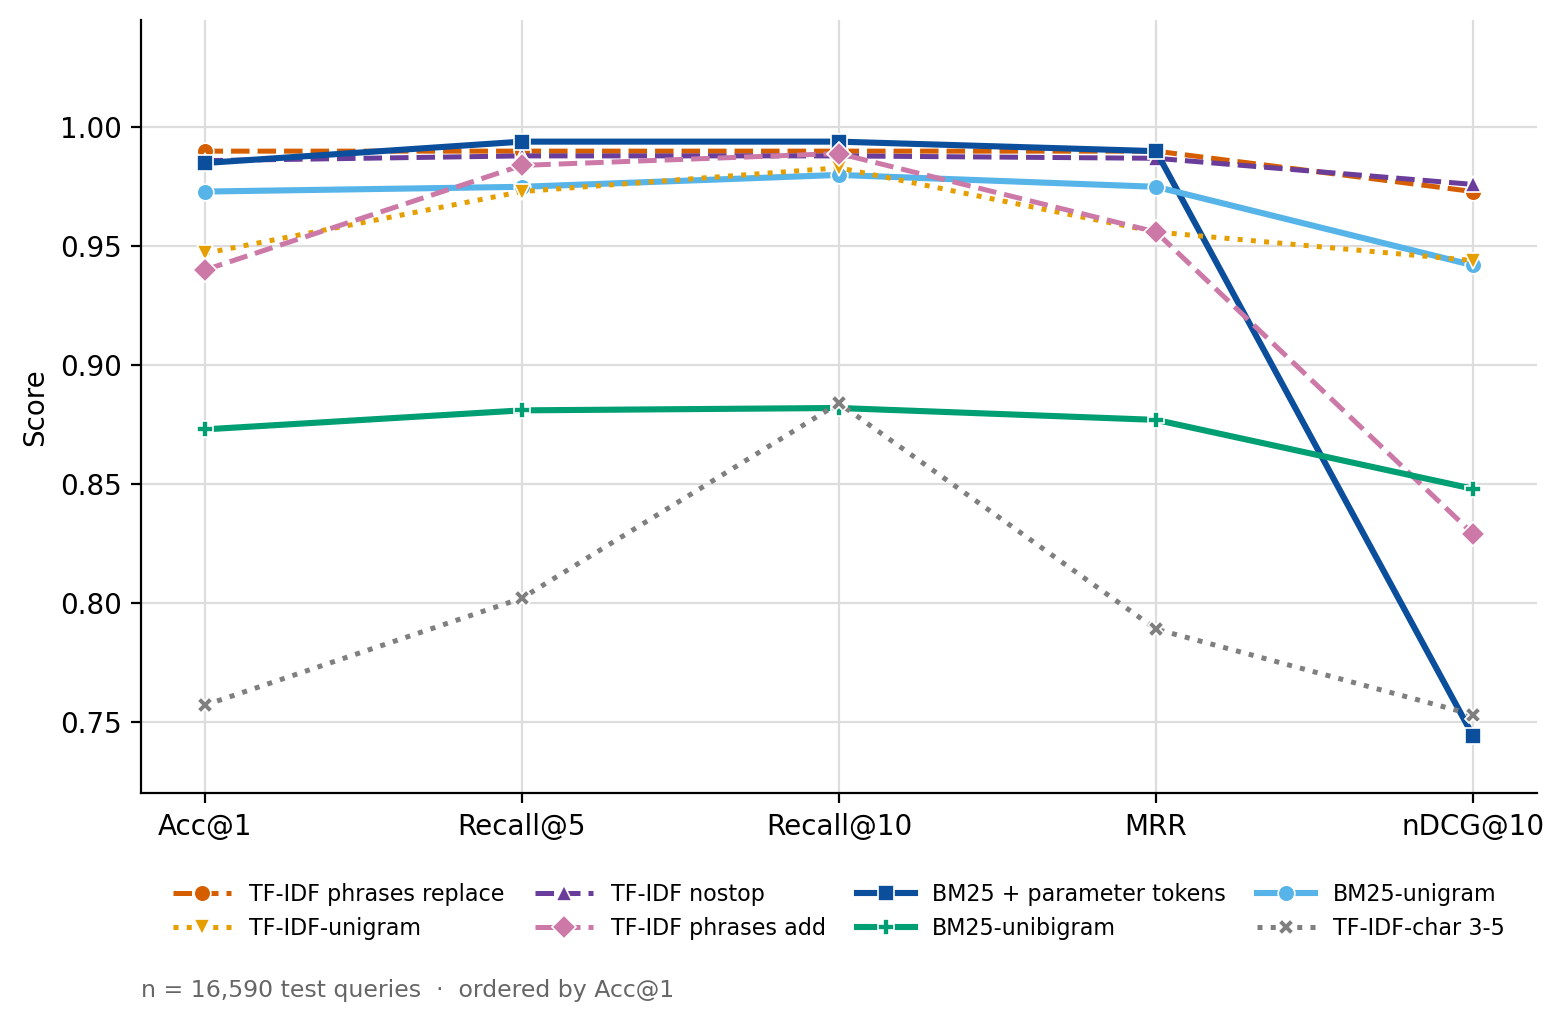
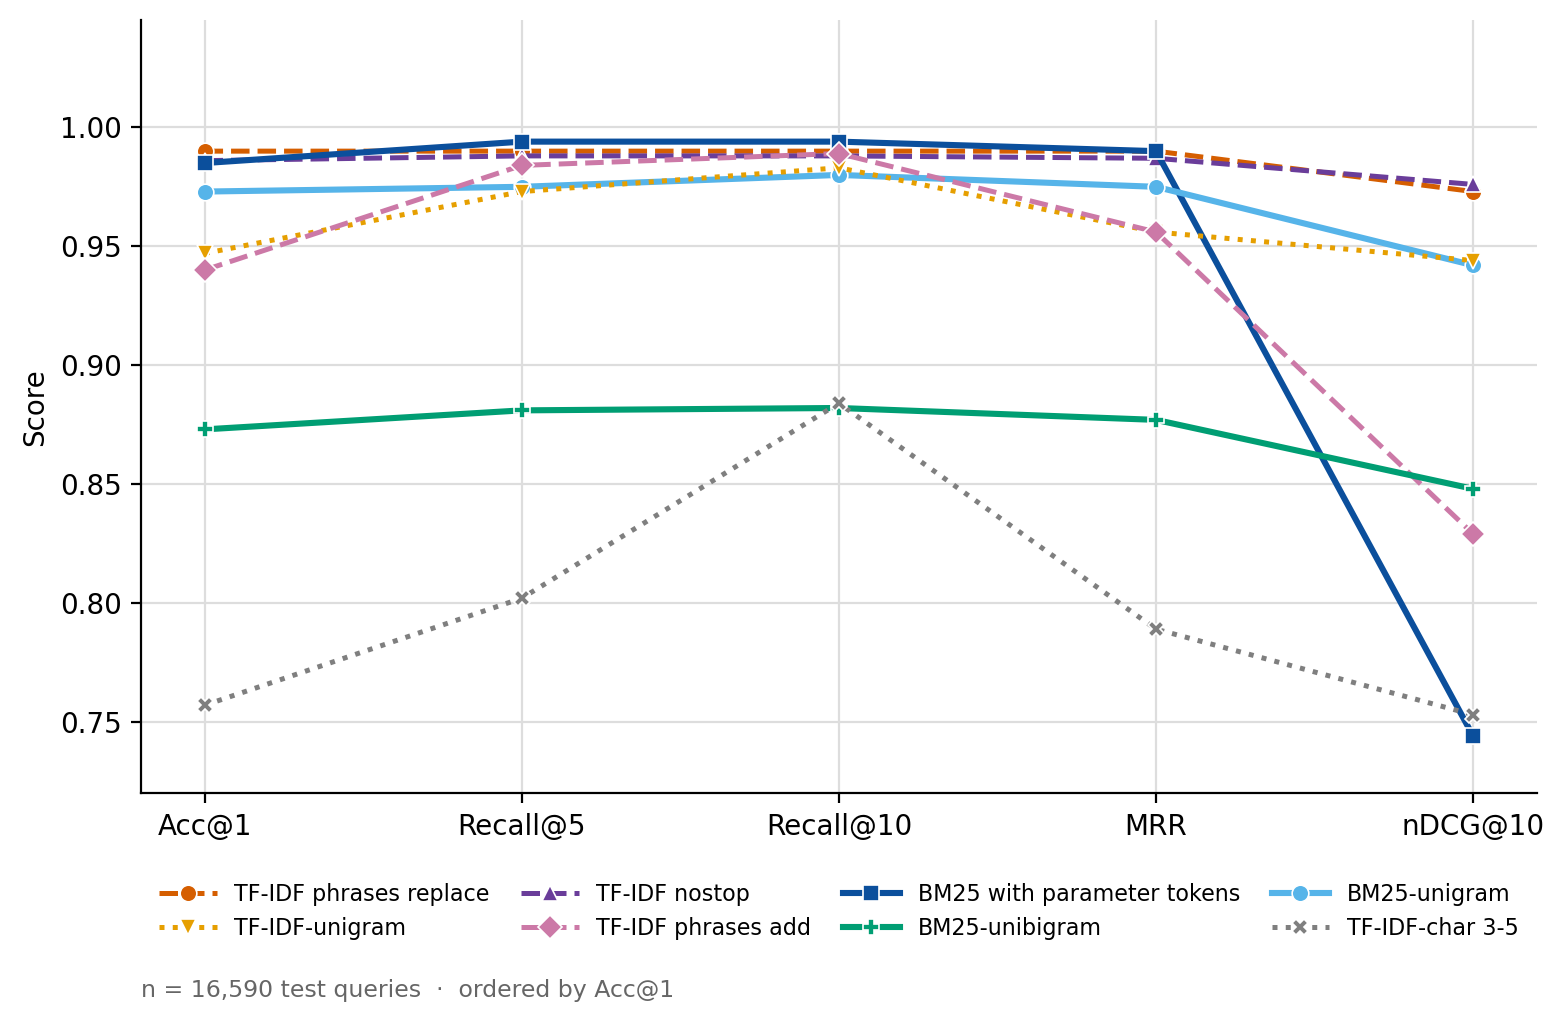
Figures: acc1_by_family from eval/ aggregates; series name
plot_acc1_by_family.py read runs/, which is only partly rebuilt and will
never again hold the fusion or cross-encoder runs. It now reads
eval/families/acc1_by_family.json, which gives each of the 12 values with
its source and every other surviving record of it:

- full precision from eval/ where it exists (significance pairs/families,
  param_tokens/computed.json);
- otherwise the bar height of the published figure, read from the PDF path
  coordinates (±1e-6). That is the only surviving record of the hybrid and
  reranking parent-level values (0.973960, 0.992465); every bar that has
  another record agrees with it.

The 12 labels are unchanged (0.974/0.985, 0.973/0.985, 0.903/0.985,
0.893/0.974, 0.766/0.992, 0.448/0.997) and the bar heights of the new PDF
equal the old ones to 5 decimals. The legend moves above the axes, out of
the bar area; figsize, name and format are kept (596.9 x 266.4 pt against
596.9 x 267.6 pt).

lexical_performance_{item,parent}.png: series renamed to "BM25 with
parameter tokens", as in the tables, and regenerated.

Changed region(s): [[0.3438, 0.8535, 0.9688, 0.9449], [0.0938, 0.8535, 0.3125, 0.9449]]

diff --git a/scripts/plot_acc1_by_family.py b/scripts/plot_acc1_by_family.py
@@ -6,13 +6,16 @@ y de reranking, porque `src/metrics.ipynb` no puede procesar runs sin índice
 propio. Justamente esas dos familias son las que combinan señal léxica y neuronal,
 así que su brecha ítem/padre es la que dice dónde está la aportación de cada una.
 
+Los valores se leen de `eval/families/acc1_by_family.json`, no de `runs/`: tras
+D-019 sólo se han reconstruido algunos runs, y la fusión y el cross-encoder no se
+vuelven a ejecutar. El JSON documenta la procedencia de cada cifra.
+
 Uso:  python scripts/plot_acc1_by_family.py
 """
 from __future__ import annotations
 
 import argparse
 import json
-import sys
 from pathlib import Path
 
 import matplotlib
@@ -20,57 +23,22 @@ import matplotlib
 matplotlib.use("Agg")
 import matplotlib.pyplot as plt  # noqa: E402
 
-sys.path.insert(0, str(Path(__file__).resolve().parent))
-from eval_dual import load_ranking, metrics  # noqa: E402
-
-RUNS = Path("runs")
+DATA = Path("eval/families/acc1_by_family.json")
 OUT = Path("paper/figures/acc1_by_family.pdf")
-
-# (familia, mejor configuración de esa familia, cómo leerla)
-FAMILIAS = [
-    ("Lexical\n(BM25 + params)", RUNS / "bm25_unigram_params__k1-0.60__b-0.35" / "metrics_dual.json", "dual"),
-    ("PRF\n(RM3)", RUNS / "prf_rm3__bm25_unigram_params__k1-0.60__b-0.35__M5__N20__beta0_7" / "metrics_dual_parent.json", "parent"),
-    ("Structured\n(rules)", RUNS / "structured_pipeline_rules" / "metrics_dual.json", "dual"),
-    ("Hybrid\n(3-way)", RUNS / "hybrids" / "hyb_bm25_uni__bge_colbert__tfidf_char_3_5" / "metrics_dual_parent.json", "parent"),
-    ("Reranking\n(BM25 + blend)", RUNS / "bm25_unigram" / "results_top50_ce_blend.jsonl.gz", "ranking"),
-    ("Neural\n(BGE-M3 ColBERT)", RUNS / "bge_m3_colbert" / "metrics_dual.json", "dual"),
-]
-
-
-def leer(path: Path, tipo: str) -> tuple[float, float] | None:
-    if not path.exists():
-        return None
-    if tipo == "dual":
-        d = {
-            r["target"]: r
-            for r in json.loads(path.read_text(encoding="utf-8"))
-            if r.get("scope") == "overall"
-        }
-        return d["item"]["Acc@1"], d["parent"]["Acc@1"]
-    if tipo == "parent":
-        d = json.loads(path.read_text(encoding="utf-8"))
-        return d["item"]["Acc@1"], d["parent"]["Acc@1"]
-    if tipo == "ranking":
-        ranking = load_ranking(path)
-        return metrics(ranking, "item")["Acc@1"], metrics(ranking, "parent")["Acc@1"]
-    raise ValueError(tipo)
 
 
 def main() -> int:
     parser = argparse.ArgumentParser(description=__doc__)
+    parser.add_argument("--data", type=Path, default=DATA)
     parser.add_argument("--out", type=Path, default=OUT)
     args = parser.parse_args()
 
-    etiquetas, items, padres = [], [], []
-    for nombre, path, tipo in FAMILIAS:
-        valores = leer(path, tipo)
-        if valores is None:
-            print(f"sin artefacto: {path}", file=sys.stderr)
-            continue
-        etiquetas.append(nombre)
-        items.append(valores[0])
-        padres.append(valores[1])
-        print(f"  {nombre.replace(chr(10), ' '):34s} item={valores[0]:.4f}  padre={valores[1]:.4f}")
+    familias = json.loads(args.data.read_text(encoding="utf-8"))["families"]
+    etiquetas = [f["label"] for f in familias]
+    items = [f["item"]["Acc@1"] for f in familias]
+    padres = [f["parent"]["Acc@1"] for f in familias]
+    for nombre, item, padre in zip(etiquetas, items, padres):
+        print(f"  {nombre.replace(chr(10), ' '):34s} item={item:.4f}  padre={padre:.4f}")
 
     x = range(len(etiquetas))
     ancho = 0.38
@@ -88,7 +56,9 @@ def main() -> int:
     ax.set_ylabel("Acc@1", fontsize=9)
     ax.set_ylim(0, 1.12)
     ax.spines[["top", "right"]].set_visible(False)
-    ax.legend(loc="lower left", frameon=False, fontsize=8.5, ncol=2)
+    # La leyenda va por encima del eje, fuera del área de las barras, como en
+    # las demás figuras del manuscrito.
+    ax.legend(loc="lower center", bbox_to_anchor=(0.5, 1.0), frameon=False, fontsize=8.5, ncol=2)
     fig.tight_layout()
 
     args.out.parent.mkdir(parents=True, exist_ok=True)

diff --git a/scripts/plot_lexical_performance.py b/scripts/plot_lexical_performance.py
@@ -29,7 +29,7 @@ METRICS = ["Acc@1", "Recall@5", "Recall@10", "MRR", "nDCG@10"]
 # Okabe e Ito, que se distinguen también con daltonismo; cada serie lleva además
 # su propio marcador, así que no dependen sólo del color.
 SERIES = {
-    "bm25_unigram_params__k1-0.60__b-0.35": ("BM25 + parameter tokens", "#0b4f9c", "-", "s"),
+    "bm25_unigram_params__k1-0.60__b-0.35": ("BM25 with parameter tokens", "#0b4f9c", "-", "s"),
     "bm25_unigram__k1-0.80__b-0.35": ("BM25-unigram", "#56b4e9", "-", "o"),
     "bm25_unibigram__k1-0.80__b-0.35": ("BM25-unibigram", "#009e73", "-", "P"),
     "tfidf_unigram_phrases_replace": ("TF-IDF phrases replace", "#d55e00", "--", "o"),
